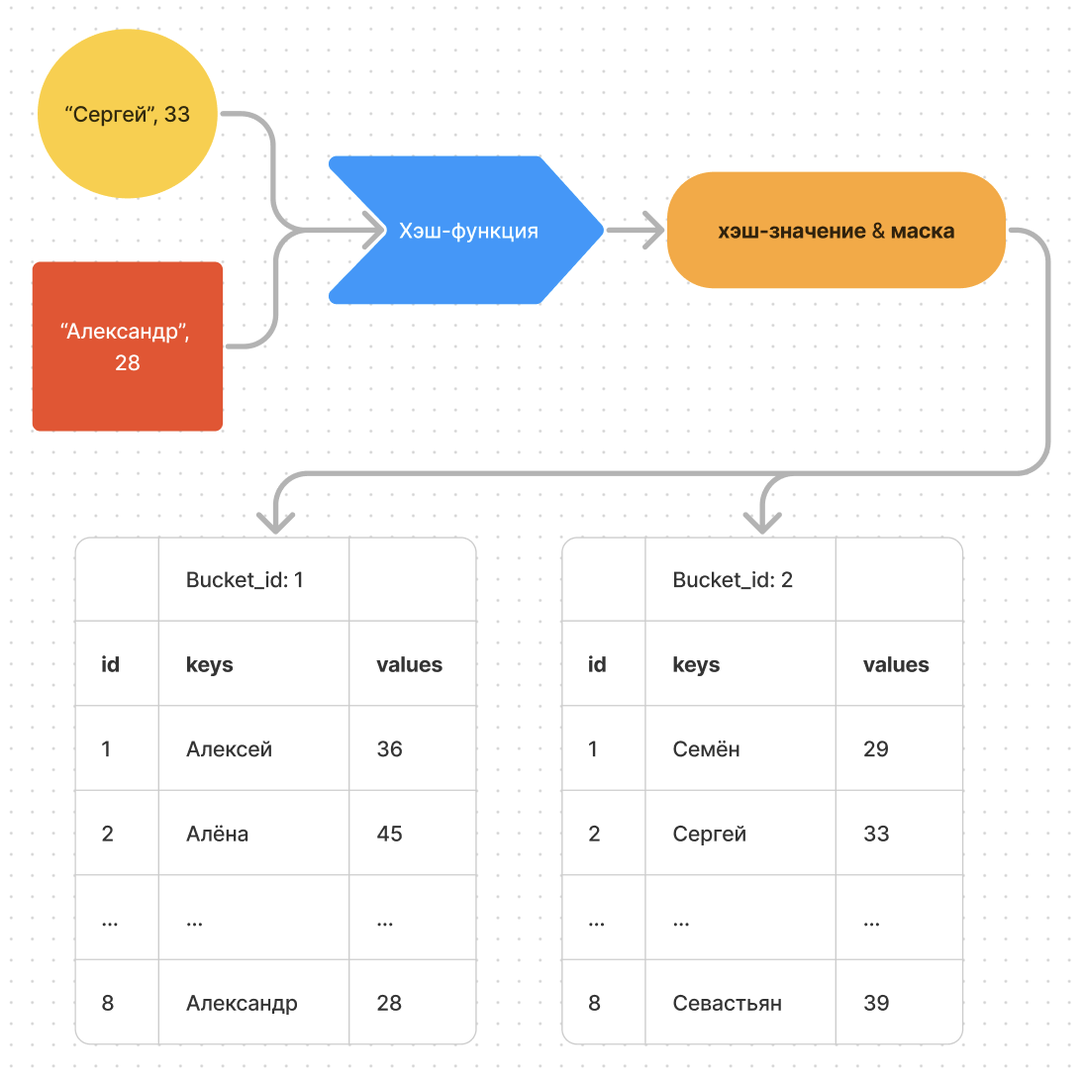
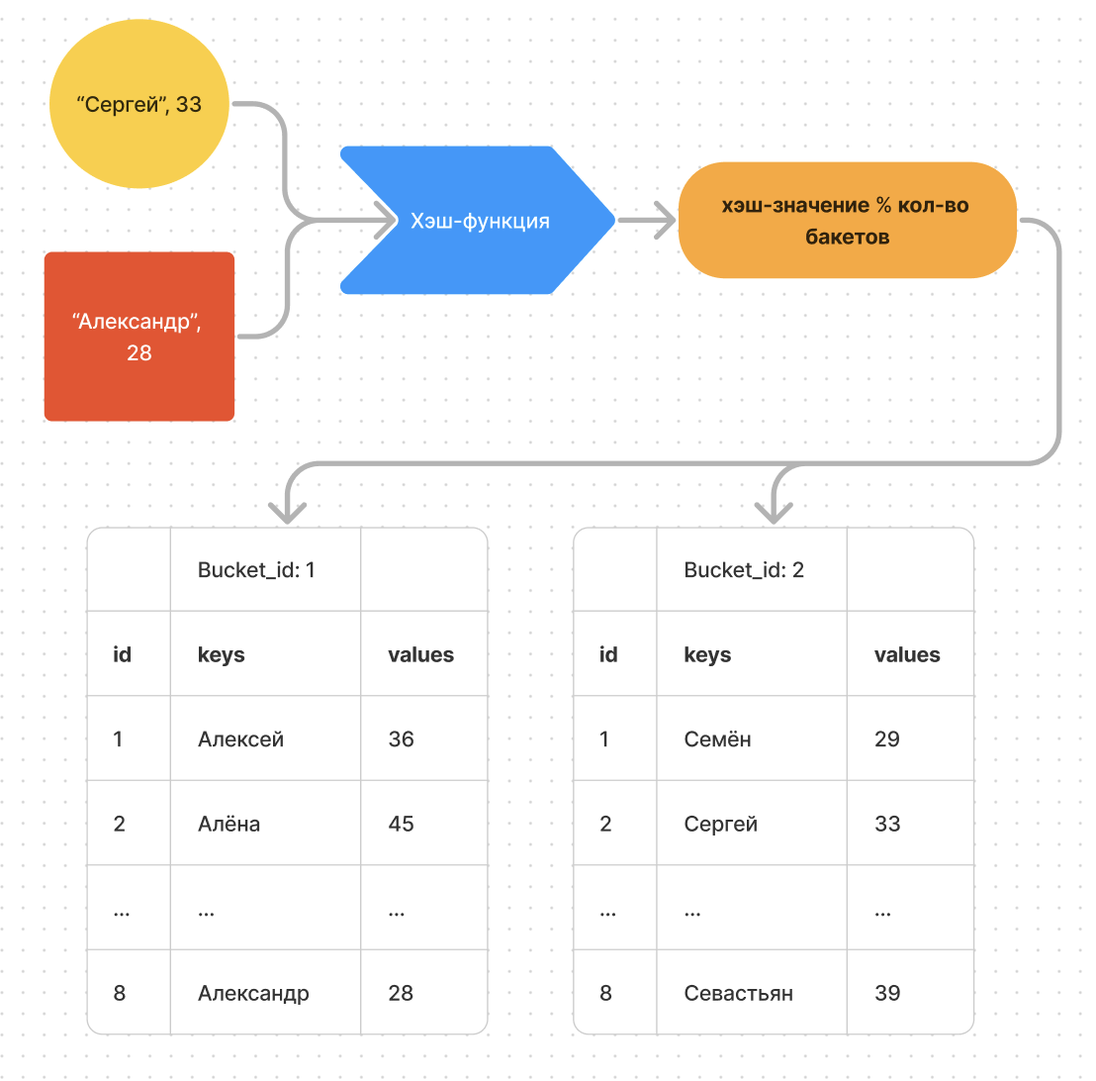
Update 2 files
- Main/map-khesh-tablicy.md
   - Main/map-khesh-tablicy.png

diff --git a/Main/map-khesh-tablicy.md b/Main/map-khesh-tablicy.md
@@ -3,9 +3,9 @@ order: 5
 title: Map
 ---
 
-**Aka** **хэш-таблицы, aka хэш-мапы, aka словари**
+**Aka** **хэш-таблица, aka хэш-мапа, aka словарь, aka** **ассоциативный массив (как много у него имён)**
 
-Это ещё более сложная структура данных, чем слайсы, так что приготовься морально перечитывать по нескольку раз 1 абзац (если не шаришь).
+Это ещё более сложная структура данных, чем слайсы, так что приготовься.
 
 ## Если просто
 
@@ -19,17 +19,23 @@ title: Map
 
 -  универсальность (хранение различных типов данных как в качестве ключа, так и значения)
 
-Быстрый доступ в хэш-таблице обеспечивается хэш-функцией, которая вычисляет хэш, оттуда и название (подробнее ниже)
+Быстрый доступ в хэш-таблице обеспечивается хэш-функцией, которая вычисляет хэш, оттуда и название (подробнее ниже).
 
-Мапа в Go по сути похожа на слайс, где каждый его элемент из себя представляет пару ключ-значение. То есть итерируясь по мапе, мы будем получать ключ и значение по этому ключу.
+Далее мы с тобой будем постоянно формировать представление мапы в голове, от простого к сложному, так что на протяжении всего чтива она будет менять свой облик, но зато тебе будет легче так воспринимать её. 
 
-Схематично можно представить мапу так (двумерный слайс?):
+Для начала держи её объявление (подробнее ещё обсудим):
 
 ```Go
-{{key0, value0}, {key1, value1}, … {keyN, valueN}}
+m := map[string]int {  
+	"Один": 1,
+	"Два": 2,
+	"Три": 3,    
+} 
 ```
 
-Создаём мы мапу, объявляя типы для ключа и значения (то есть типы могут быть любыми допустимыми, но фиксированными для одной мапы) + возможна инициализация
+Мапа в Go по сути похожа на массив, где каждый его элемент из себя представляет пару ключ-значение. То есть, итерируясь по мапе, мы будем получать ключ и значение по этому ключу.
+
+Создаём мы мапу, объявляя типы для ключа и значения (то есть типы могут быть любыми допустимыми, но фиксированными для одной мапы) + возможна инициализация при объявлении.
 
 ### Типы данных для ключей:
 
@@ -104,13 +110,13 @@ var m map[string]int{}         // Вызовет синтаксическую о
 // так как объявление с инициализацией требует указания значний как в первом примере
 ```
 
-После объявления мапы давайте с ней поработаем
+После объявления мапы давайте с ней поработаем.
 
 ### Работа с мапой
 
 :::danger 
 
-Очень важно помнить, что мапа не является упорядоченной! То есть порядка последовательности в ней не сохраняется, подробнее ниже
+Очень важно помнить, что мапа не является упорядоченной! То есть последовательности в ней не сохраняется, подробнее ниже!
 
 :::
 
@@ -124,7 +130,7 @@ m := map[string]int {
 } 
 
 for key, value := range(m) {
-	fmt.Println(ket, value)
+	fmt.Println(key, value)
 }
 ```
 
@@ -156,13 +162,17 @@ value, ok = m["пять"] // 3, false
 
 ## Если посложнее
 
-Сама по себе мапа по сути является **массивом бакетов**.
+Мапа содержит в себе **массив бакетов**.
 
 Бакеты используются для сортировки ключ-значений по определённому признаку (об этом в нижнем разделе) и **хранят в себе до 8 пар ключ-значение**.
 
-Нужно это для более быстрого поиска (разделяй и властвуй)
+То есть такие корзинки для сортировки с восемью ячейками.
 
-Для простоты понимания давайте представлять мапу пока что вот так:
+Нужно это для более быстрого поиска (разделяй и властвуй). 
+
+ Но сортировка эта работает не по значению или содержанию ключа, так что и не надейся, **в мапе нет порядка, есть только хаос!)**
+
+Для простоты понимания, давай представлять мапу пока что вот так:
 
 ```Go
 type bmap struct {
@@ -175,9 +185,9 @@ type map []bmap // мапа (:
 
 То есть массив бакетов, хранящих до 8 ключ-значений.
 
-Например, если при поиске значения мы находим ключ, совпадающий с указанным, то по id массива `keys` этого ключа, мы достаём элемент из массива `values`
+В нашей схеме это работает так: если при поиске значения мы находим в мапе ключ, совпадающий с указанным, то по id массива `keys` этого ключа, мы достаём элемент из массива `values`
 
-В реальности Go использует нечто более сложное для представления ключей и значений в бакетах, но для упрощения сойдёт.
+В реальности же Go использует нечто более сложное для представления ключей и значений в бакетах, но для упрощения понимания сойдёт.
 
 ### Хэш-функция
 
@@ -185,7 +195,7 @@ type map []bmap // мапа (:
 
 Всё верно, но поиск по мапе и производится как раз по индексу. **Всё дело в хэш-функции**
 
-Когда вы добавляете или ищете элемент по ключу (например, строке), хэш-функция (для нас это чёрная коробка, разрабы не раскрывают реализацию) преобразует этот ключ в хэш-значение. Полученное хэш-значение тоже имеет терпит некоторые преобразования, чтобы получить индекс бакета, в который будет помещен элемент.
+Когда вы добавляете или ищете элемент по ключу (например, строке), хэш-функция (для нас это чёрная коробка, разрабы не раскрывают реализацию) преобразует этот ключ в хэш-значение. Полученное хэш-значение (по сути) делится по модулю, чтобы получить индекс бакета, в который будет помещен элемент.
 
 В найденный бакет ключ-значение попадает в первую свободную ячейку.
 
@@ -197,43 +207,43 @@ type map []bmap // мапа (:
 
 Порядок извлечения элементов из мапы может отличаться от порядка их вставки.
 
-Для каждого запуска программы **используется случайный seed для хэш-функции**, что **рандомизирует распределение**, по сути создавая каждый раз новые хэш-значения для одних и тех же ключей (подробнее ниже), а значит **распределяет их по разным бакетам**, куда они могут попадать в ином порядке
+Для каждого запуска программы **используется случайный seed для хэш-функции**, что **рандомизирует распределение**, по сути создавая каждый раз новые хэш-значения для одних и тех же ключей (подробнее ниже), а значит **распределяет их по разным бакетам**, куда они могут попадать в ином порядке.
 
 **Именно поэтому мапа не является упорядоченной!**
 
 :::
 
-### Например, создадим мапу с ключом - именем, а значением - возрастом:
+### Ради примера создадим мапу с ключом - именем, а значением - возрастом:
 
 ![](./map-khesh-tablicy.png)
 
 :::info 
 
-Схема максимально упрощённая. Так, тут опускается структура мапы, строение бакета, вычисление id бакета, используя маску и т.д., чтобы твой мозг не попросился сразу наружу. Для любителей экзотики вся эта информация будет ниже.
+Схема максимально упрощённая. Так, тут опускается структура мапы, строение бакета, вычисление id бакета по маске и т.д., чтобы твой мозг не попросился сразу наружу. Для любителей экзотики вся эта информация будет ниже.
 
 :::
 
-Это работает очень хорошо до момента, пока у нас не будет очень много ключей. В таком случае хэш-функция не сможет дать всем ключам уникальные хэш-значения.
+Это работает очень хорошо до момента, пока у нас не будет много ключей. В таком случае хэш-функция не сможет дать всем ключам уникальные хэш-значения.
 
 То есть хэш-функция для  некоторых ключей может вычислить  одинаковые хэш-значения, и произойдёт так называемая **коллизия**.
 
-Есть разные методы решения коллизий, не буду заострять на этом внимание, разберём, как это работает в Go.
-
 ### Коллизии
 
-Коллизия в общем смысле - это столкновение. В нашем случае столкновение одинаковых значений хэшей. 
+Коллизия в общем смысле - это столкновение. В нашем частном случае - столкновение одинаковых значений хэшей.
 
-Для решения коллизий элемент (ключ-значение) помещается в  overflow бакет, а ссылка на этот overflow бакет сохраняется в исходном бакете.
+Для решения коллизий, элемент (ключ-значение) помещается в  overflow бакет, а ссылка на этот overflow бакет сохраняется в исходном бакете.
 
 Такой метод решения коллизий называется метод цепочек (chaining).
 
-Это справедливо и для переполнения бакета. Когда для нового ключ-значения уже не хватает места в бакете, он отправляется в overflow бакет.
+В природе существуют и другие методы решения коллизий, помимо метода цепочек, но я не буду заострять на этом внимание, остановимся на том, как это работает в Go.
+
+**Сhaining** справедлив и для переполнения бакета. Когда для нового ключ-значения уже не хватает места в бакете, он отправляется в overflow бакет.
 
 Один бакет может хранить одну ссылку на overflow бакет.
 
 ![](./map-khesh-tablicy-2.png)
 
-При этом сам overflow бакет может тоже хранить ссылку на другой overflow бакет в случае коллизий, и так далее, жёстких ограничений на стороне реализации Go нет.
+При этом сам overflow бакет может тоже хранить ссылку на другой overflow бакет в случае коллизий и переполнений, и так далее, жёстких ограничений на стороне реализации Go нет.
 
 Тут и кроется опасность, когда злоумышленник может подобрать входные данные таким образом, чтобы порождать огромное количество коллизий, что может замедлить или даже парализовать работу системы. Но и тут у мапы есть решение, но об этом ниже.
 
@@ -241,13 +251,17 @@ type map []bmap // мапа (:
 
 Подробнее: <https://github.com/golang/go/blob/master/src/runtime/map.go>
 
+#### Небольшое предисловие
+
 По ссылке выше будет актуальная информация реализации map, так как она может незначительно измениться и ниже может оказаться не актуальная информация.
 
 Подробное строение мапы нужно только ради любопытства (ещё на собесах любят гонять по этой дичи), а для большинства задач хватит понимания того, что метод оптимизации работы с мапой такой же, как и со слайсом - заранее аллоцируем память, если мапа может активно расти, иначе запустится процесс эвакуации, который на некоторое количество операций замедлит работу map + лишняя нагрузка на железо.
 
 Хотя, если обращение к мапе не будет таким частым, то внутренних оптимизаций мапы хватит, и не обязательно выделять заранее конкретное число элементов.
 
-Но если таки интерес берёт верх, то всё же немного приоткроем капот, чтобы понять, как там шестерёнки двигаются:
+Но если таки интерес берёт верх, то всё же немного приоткроем капот, чтобы понять, как там шестерёнки двигаются.
+
+#### Если ты осмелился (хотя вроде ничего сложного, просто много)
 
 Сама мапа состоит из 2 структур под названием **header** (hmap) и **bucket** (bmap)
 
@@ -276,11 +290,15 @@ type bmap struct {
 
 ## Header
 
-**Count** - это размер мапы, количество элементов, используется функцией `len()`
+### **Count**
 
-**Flags** - флаги используются для хранения состояния мапы.
+Это размер мапы, количество элементов, используется функцией `len()`
 
-Флаги помогают Go-runtime эффективно управлять состоянием мапы, особенно в многопоточных и динамически изменяющихся средах.
+### **Flags**
+
+Используются для хранения состояния мапы. Флаги помогают Go-runtime эффективно управлять состоянием мапы, особенно в многопоточных и динамически изменяющихся средах.
+
+Вот как флаги выглядят в официальном гите:
 
 ```Go
 const (
@@ -293,7 +311,7 @@ const (
 
 ### B
 
-Этот параметр заслуживает отдельного подробного разъяснения.
+Это поле заслуживает отдельного подробного разъяснения.
 
 **B** - это **log_2(numBuckets)**, то есть логарифм по основанию 2 от количества бакетов.
 
@@ -305,7 +323,7 @@ const (
 
 Как описывалось выше, индекс основывается на хэш-значении. А происходит это **при помощи маски**.
 
-Например:
+**Например:**
 
 Допустим у нас **B = 3**, а значит у нас **8 бакетов**, а хэш-значение предположим такое: **0xA1B2C3D4**
 
@@ -318,32 +336,98 @@ index := hashValue & mask // 4
 
 :::note 
 
-**<<** это битовая операция, которая сдвигает значение слева на количество бит, указанных справа, работает это в двоичной системе, в нашем случае это выглядит так:
+**“<<“ –** это битовая операция, которая сдвигает значение слева на количество бит, указанных значением справа, работает это в двоичной системе, в нашем случае процесс выглядит так:
 
 КУРСИВОМ УКАЗАНЫ ЧИСЛА В ДВОИЧНОМ ПРЕДСТАВЛЕНИИ
 
-**mask = (1 << 3) - 1 = (*0001* << 3) - 1 = *1000* \- 1 = 8 - 1 = 7 = *0111***
+\*\*mask = (1 << 3) - 1 = (*0001* << 3) - 1 = *1000* - 1 = 8 - 1 = 7 = \*0111 \*\*\*
 
-**hashValue** = **0xA1B2C3D4** = ***1010 0001 1011 0010 1100 0011 1101 0100***
+**hashValue = 0xA1B2C3D4 = *1010 0001 1011 0010 1100 0011 1101 0100***
 
-**Index** = **hashValue & mask = *100***
+**index = hashValue & mask = *100* = 4**
 
-Побитовое & (и) работает так: каждая цифра (бит) в соответствующих позициях двух чисел сравнивается, если обе цифры в текущем разряде равны `1`, то в результате для этого разряда будет `1`. Если хотя бы одна цифра в текущем разряде равна `0`, то в результате для этого разряда будет `0`
+Побитовое **&** (и) работает по сути как и логическое **&&**: каждая цифра (бит) в соответствующих позициях двух чисел сравнивается, если обе цифры в текущем разряде равны `1`, то в результате для этого разряда будет `1`. Если хотя бы одна цифра в текущем разряде равна `0`, то в результате для этого разряда будет `0`
 
+**1010  0001  1011   0010  1100  0011  1101   0100** (hashValue)
 
+**&**
 
-**1010  0001  1011   0010  1100  0011  1101   0100** (hashValue)   
+**0000 0000 0000 0000 0000 0000 0000 0111**  (mask)
 
-**&** 
-
-**0000 0000 0000 0000 0000 0000 0000 0111**  (mask)  
-
-\--------------------------------------------------------------     
+---
 
 **0000 0000 0000 0000 0000 0000 0000 0100** (результат = 4)
 
 :::
 
-То есть, как понятно из вычислений, удобство состоит в том, что логарифм по основанию 2 позволяет правильно выполнять побитовые операции, смещая единицу на столько бит, сколько нужно для получения правильного числа.
+Все эти расчёты по сути равны тем, что описаны в упрощённой схеме, то есть как бы делим по модулю хэш-значение (в десятичном представлении) на количество бакетов и получаем тот же результат.
 
-Более того, расширение мапы обычно её удваивает, а так как **B** является степенью двойки, то мы можем просто прибавлять к **B** единичку, и мапа увеличится вдвое. О процессе расширения ниже.
+Просто **побитовые операции быстрее** классических математических.
+
+И как раз для побитовых операций удобно иметь число, которое является степенью двойки.
+
+Более того, процесс роста мапы обычно её удваивает, а так как **B** является степенью двойки, то мы можем просто прибавлять к **B** единичку, и мапа увеличится вдвое. О процессе роста ниже.
+
+:::note 
+
+1 << N - это наиболее быстрый для процессора аналог возведения двойки в степень N, так как побитовая операция производится за один такт процессора, а математическая - за несколько.
+
+:::
+
+### noverflow
+
+**noverflow** хранит в себе количество overflow бакетов.
+
+Используется для того, чтобы отслеживать количество overflow бакетов и инициировать рост мапы, если количество overflow бакетов становится слишком большим.
+
+**noverflow может хранить в себе как точное, так и приблизительное количество бакетов:**
+
+1. **Точное значение**: Когда количество бакетов невелико (меньше 1<<16 = 65536), `noverflow` хранит точное количество overflow бакетов.
+
+2. **Приблизительное значение**: Когда количество бакетов велико (больше или равно 1<<16), `noverflow` хранит приблизительное количество overflow бакетов. Это сделано для экономии памяти, так как точный подсчет overflow бакетов, при таком их количестве, требует больше ресурсов и времени.
+
+### hash0
+
+**hash0** хранит в себе **seed-значение** для хэш-функции. Он применяется к хэш-значению, что делает индексирование бакетов рандомным. 
+
+**Hash0** инициализируется для мапы **рандомным значением** при запуске программы. Поэтому важно понимать следующее: во-первых, **для каждой мапы своё seed-значение**, а во-вторых, после перезапуска программы **элементы будут распределены иначе**, нежели до этого. 
+
+Да, именно об этом **seed** я писал выше. Он - одна из главных причин беспорядков в мапе.
+
+Но роль seed очень важна для мап, так как он позволяет распределять данные более равномерно по бакетам, а также это защищает систему от DDOS атак по коллизиям. Как это работает?
+
+Злоумышленник подбирает входные данные так, чтобы создавать множество коллизий, которые будут заставлять мапу использовать память неэффективно, при этом постоянно находясь в процессе роста, что может замедлить или даже парализовать систему.
+
+### buckets
+
+Указатель на массив бакетов мапы. Если поле **count** равно нулю, то **buckets = nil.**
+
+### oldbuckets
+
+Указатель на массив предыдущих бакетов. Используется при росте мапы.
+
+### nevacuate
+
+Количество эвакуированных бакетов, используется в процессе роста мапы, о котором подробнее будем говорить, как всегда, ниже.
+
+### extra
+
+Указатель на структуру **mapextra**, которая выглядит так:
+
+```
+type mapextra struct {
+	overflow *[]*bmap
+	oldoverflow *[]*bmap
+	nextOverflow *bmap
+}
+```
+
+**overflow** - указатель на массив указателей на overflow бакеты
+
+**oldoverflow** - указатель на массив указателей на overflow бакеты из предыдущей версии этой мапы (как легко догадаться, используется при росте мапы)
+
+**nextOverflow** - указатель на пустой overflow бакет, который затем выделится для решения коллизии, ускоряя этот процесс.
+
+В общем, структура **mapextra** предоставляет вспомогательные поля, которые помогают оптимизировать работу с overflow бакетами, особенно при росте мапы и при частом добавлении новых элементов, обеспечивая более эффективное управление паматью и уменьшение задержек при перераспределении элементов.
+
+## Bucket
